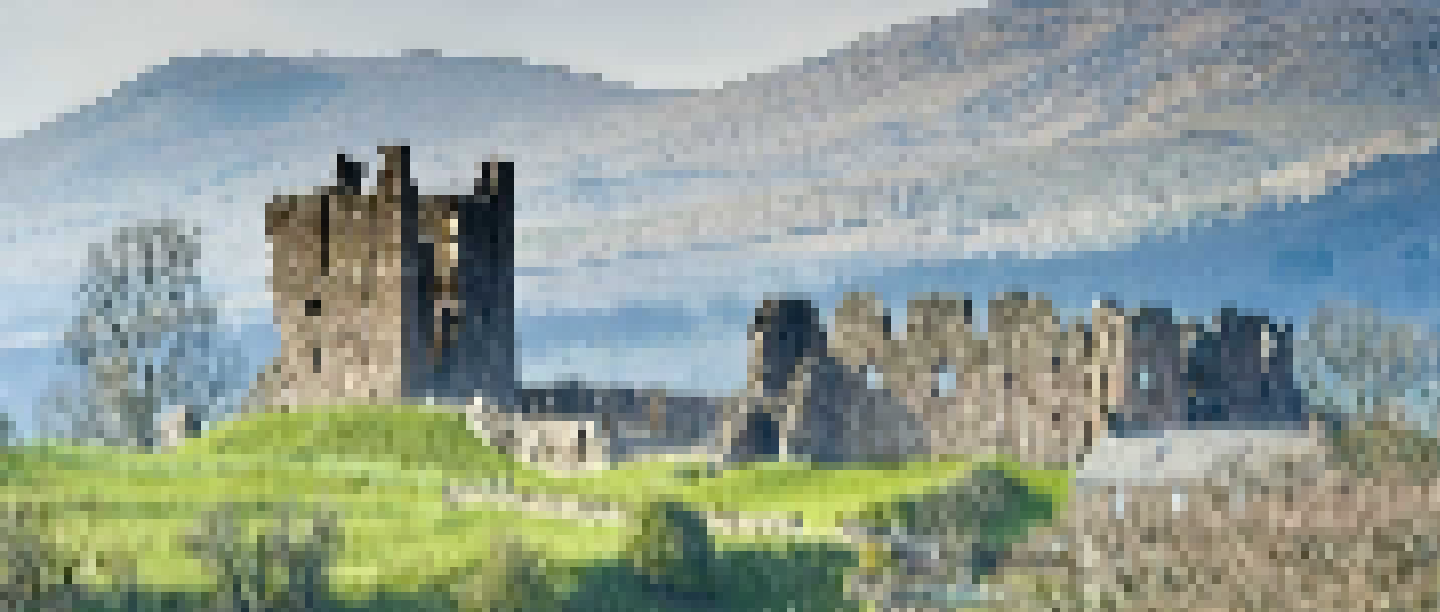
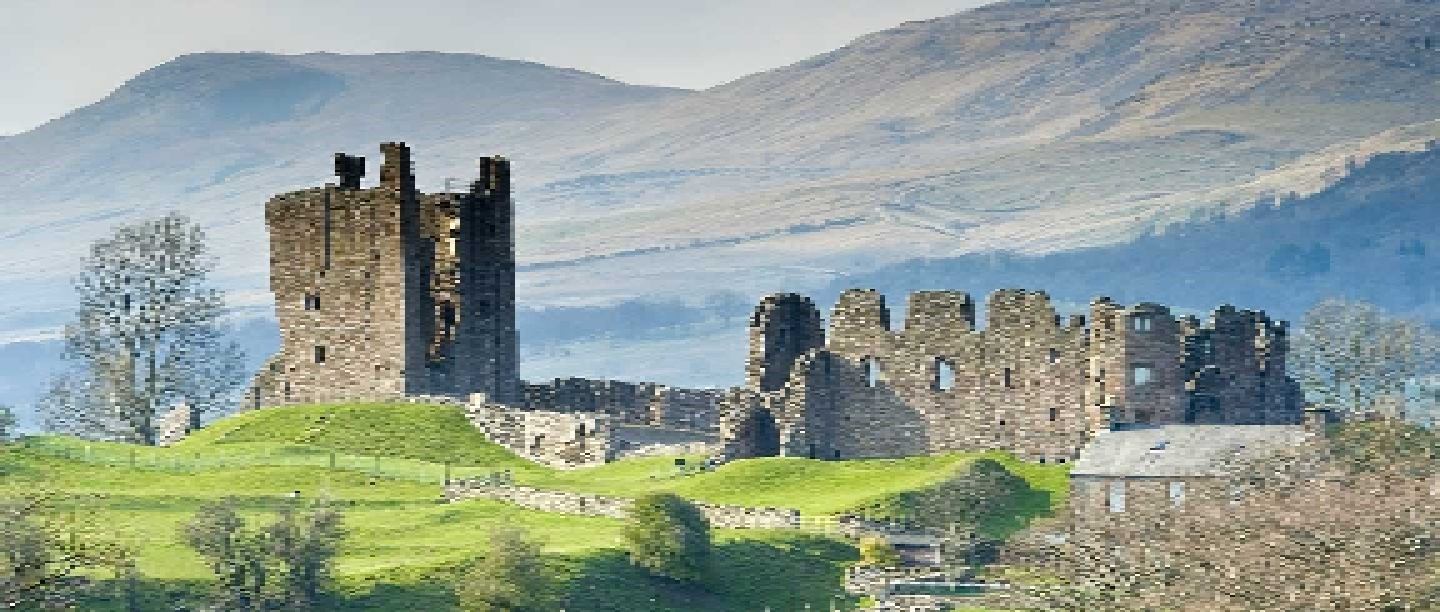
update the background and npc

diff --git a/levels/greensleeves.py b/levels/greensleeves.py
@@ -133,17 +133,15 @@ def start():
 
 
     # Create the background image for the level
-    bg_img = pygame.image.load('assets/images/backgrounds/happy_birthday_background.png')
-    bg_img = pygame.transform.scale(bg_img,(SCREEN_WIDTH,SCREEN_HEIGHT))
-    
-    # king = pygame.image.load('assets/images/characters/npcs/Henry_VIII.png')
-    # king = pygame.transform.scale(king, (150, 210))
-    
-    # queen = pygame.image.load('assets/images/characters/npcs/Anne_Boleyn.png')
-    # queen = pygame.transform.scale(queen, (90, 90))
+    bg_image = pygame.image.load("assets/images/backgrounds/greensleeves-bg.png").convert()
+    bg_image.set_colorkey((255, 255, 255), RLEACCEL)
+
     # a foreground image for the notes to go behind
-    # fg_image = pygame.image.load("assets/images/backgrounds/greensleeves-bg.png").convert()
-    # fg_image.set_colorkey((255, 255, 255), RLEACCEL)
+    king = pygame.image.load('assets/images/characters/npcs/Henry_VIII.png')
+    king = pygame.transform.scale(king, (100, 160))
+    
+    queen = pygame.image.load('assets/images/characters/npcs/Anne_Boleyn.png')
+    queen = pygame.transform.scale(queen, (60, 60))
 
 
     # the background image of the tabs
@@ -195,94 +193,94 @@ def start():
 
     # This is the array with the song's note information
     song_notes = [
-        note.Note(text="2", midi=55, time_to_next_note=0.6, tab_line=3, Screen_Width=SCREEN_WIDTH, Screen_Height=SCREEN_HEIGHT, id=0),
+        note.Note(text="2", midi=57, time_to_next_note=0.6, tab_line=3, Screen_Width=SCREEN_WIDTH, Screen_Height=SCREEN_HEIGHT, id=0),
  
-        note.Note(text="1", midi=55, time_to_next_note=1, tab_line=2, Screen_Width=SCREEN_WIDTH, Screen_Height=SCREEN_HEIGHT, id=1),
-        note.Note(text="3", midi=57, time_to_next_note=0.6, tab_line=2, Screen_Width=SCREEN_WIDTH, Screen_Height=SCREEN_HEIGHT, id=2),
-        note.Note(text="0", midi=55, time_to_next_note=0.9, tab_line=1, Screen_Width=SCREEN_WIDTH, Screen_Height=SCREEN_HEIGHT, id=3),
-        note.Note(text="2", midi=60, time_to_next_note=0.45, tab_line=1, Screen_Width=SCREEN_WIDTH, Screen_Height=SCREEN_HEIGHT, id=4),
-        note.Note(text="0", midi=59, time_to_next_note=0.6, tab_line=1, Screen_Width=SCREEN_WIDTH, Screen_Height=SCREEN_HEIGHT, id=5),
+        note.Note(text="1", midi=60, time_to_next_note=1, tab_line=2, Screen_Width=SCREEN_WIDTH, Screen_Height=SCREEN_HEIGHT, id=1),
+        note.Note(text="3", midi=62, time_to_next_note=0.6, tab_line=2, Screen_Width=SCREEN_WIDTH, Screen_Height=SCREEN_HEIGHT, id=2),
+        note.Note(text="0", midi=64, time_to_next_note=0.9, tab_line=1, Screen_Width=SCREEN_WIDTH, Screen_Height=SCREEN_HEIGHT, id=3),
+        note.Note(text="2", midi=66, time_to_next_note=0.45, tab_line=1, Screen_Width=SCREEN_WIDTH, Screen_Height=SCREEN_HEIGHT, id=4),
+        note.Note(text="0", midi=64, time_to_next_note=0.6, tab_line=1, Screen_Width=SCREEN_WIDTH, Screen_Height=SCREEN_HEIGHT, id=5),
         
-        note.Note(text="3", midi=55, time_to_next_note=1, tab_line=2, Screen_Width=SCREEN_WIDTH, Screen_Height=SCREEN_HEIGHT, id=6),
-        note.Note(text="0", midi=55, time_to_next_note=0.6, tab_line=2, Screen_Width=SCREEN_WIDTH, Screen_Height=SCREEN_HEIGHT, id=7),
-        note.Note(text="0", midi=57, time_to_next_note=0.9, tab_line=3, Screen_Width=SCREEN_WIDTH, Screen_Height=SCREEN_HEIGHT, id=8),
-        note.Note(text="2", midi=55, time_to_next_note=0.45, tab_line=3, Screen_Width=SCREEN_WIDTH, Screen_Height=SCREEN_HEIGHT, id=9),
-        note.Note(text="0", midi=62, time_to_next_note=0.6, tab_line=2, Screen_Width=SCREEN_WIDTH, Screen_Height=SCREEN_HEIGHT, id=10),
+        note.Note(text="3", midi=62, time_to_next_note=1, tab_line=2, Screen_Width=SCREEN_WIDTH, Screen_Height=SCREEN_HEIGHT, id=6),
+        note.Note(text="0", midi=59, time_to_next_note=0.6, tab_line=2, Screen_Width=SCREEN_WIDTH, Screen_Height=SCREEN_HEIGHT, id=7),
+        note.Note(text="0", midi=55, time_to_next_note=0.9, tab_line=3, Screen_Width=SCREEN_WIDTH, Screen_Height=SCREEN_HEIGHT, id=8),
+        note.Note(text="2", midi=57, time_to_next_note=0.45, tab_line=3, Screen_Width=SCREEN_WIDTH, Screen_Height=SCREEN_HEIGHT, id=9),
+        note.Note(text="0", midi=59, time_to_next_note=0.6, tab_line=2, Screen_Width=SCREEN_WIDTH, Screen_Height=SCREEN_HEIGHT, id=10),
         
         note.Note(text="1", midi=60, time_to_next_note=1, tab_line=2, Screen_Width=SCREEN_WIDTH, Screen_Height=SCREEN_HEIGHT, id=11),
-        note.Note(text="2", midi=55, time_to_next_note=0.6, tab_line=3, Screen_Width=SCREEN_WIDTH, Screen_Height=SCREEN_HEIGHT, id=13),
-        note.Note(text="2", midi=55, time_to_next_note=0.9, tab_line=3, Screen_Width=SCREEN_WIDTH, Screen_Height=SCREEN_HEIGHT, id=14),
-        note.Note(text="1", midi=67, time_to_next_note=0.45, tab_line=3, Screen_Width=SCREEN_WIDTH, Screen_Height=SCREEN_HEIGHT, id=15),
-        note.Note(text="2", midi=64, time_to_next_note=0.6, tab_line=3, Screen_Width=SCREEN_WIDTH, Screen_Height=SCREEN_HEIGHT, id=16),
+        note.Note(text="2", midi=57, time_to_next_note=0.6, tab_line=3, Screen_Width=SCREEN_WIDTH, Screen_Height=SCREEN_HEIGHT, id=13),
+        note.Note(text="2", midi=57, time_to_next_note=0.9, tab_line=3, Screen_Width=SCREEN_WIDTH, Screen_Height=SCREEN_HEIGHT, id=14),
+        note.Note(text="1", midi=56, time_to_next_note=0.45, tab_line=3, Screen_Width=SCREEN_WIDTH, Screen_Height=SCREEN_HEIGHT, id=15),
+        note.Note(text="2", midi=57, time_to_next_note=0.6, tab_line=3, Screen_Width=SCREEN_WIDTH, Screen_Height=SCREEN_HEIGHT, id=16),
         
-        note.Note(text="0", midi=60, time_to_next_note=1, tab_line=2, Screen_Width=SCREEN_WIDTH, Screen_Height=SCREEN_HEIGHT, id=17),
-        note.Note(text="1", midi=59, time_to_next_note=0.6, tab_line=3, Screen_Width=SCREEN_WIDTH, Screen_Height=SCREEN_HEIGHT, id=18),
-        note.Note(text="2", midi=57, time_to_next_note=1, tab_line=4, Screen_Width=SCREEN_WIDTH, Screen_Height=SCREEN_HEIGHT, id=19),
-        note.Note(text="2", midi=65, time_to_next_note=0.6, tab_line=3, Screen_Width=SCREEN_WIDTH, Screen_Height=SCREEN_HEIGHT, id=20),
+        note.Note(text="0", midi=59, time_to_next_note=1, tab_line=2, Screen_Width=SCREEN_WIDTH, Screen_Height=SCREEN_HEIGHT, id=17),
+        note.Note(text="1", midi=56, time_to_next_note=0.6, tab_line=3, Screen_Width=SCREEN_WIDTH, Screen_Height=SCREEN_HEIGHT, id=18),
+        note.Note(text="2", midi=52, time_to_next_note=1, tab_line=4, Screen_Width=SCREEN_WIDTH, Screen_Height=SCREEN_HEIGHT, id=19),
+        note.Note(text="2", midi=57, time_to_next_note=0.6, tab_line=3, Screen_Width=SCREEN_WIDTH, Screen_Height=SCREEN_HEIGHT, id=20),
         
-        note.Note(text="1", midi=65, time_to_next_note=1, tab_line=2, Screen_Width=SCREEN_WIDTH, Screen_Height=SCREEN_HEIGHT, id=21),
-        note.Note(text="3", midi=64, time_to_next_note=0.6, tab_line=2, Screen_Width=SCREEN_WIDTH, Screen_Height=SCREEN_HEIGHT, id=22),
-        note.Note(text="0", midi=60, time_to_next_note=0.9, tab_line=1, Screen_Width=SCREEN_WIDTH, Screen_Height=SCREEN_HEIGHT, id=23),
-        note.Note(text="2", midi=62, time_to_next_note=0.45,tab_line=1, Screen_Width=SCREEN_WIDTH, Screen_Height=SCREEN_HEIGHT, id=24),
-        note.Note(text="0", midi=60, time_to_next_note=0.6,tab_line=1, Screen_Width=SCREEN_WIDTH, Screen_Height=SCREEN_HEIGHT, id=25),
+        note.Note(text="1", midi=60, time_to_next_note=1, tab_line=2, Screen_Width=SCREEN_WIDTH, Screen_Height=SCREEN_HEIGHT, id=21),
+        note.Note(text="3", midi=62, time_to_next_note=0.6, tab_line=2, Screen_Width=SCREEN_WIDTH, Screen_Height=SCREEN_HEIGHT, id=22),
+        note.Note(text="0", midi=64, time_to_next_note=0.9, tab_line=1, Screen_Width=SCREEN_WIDTH, Screen_Height=SCREEN_HEIGHT, id=23),
+        note.Note(text="2", midi=66, time_to_next_note=0.45,tab_line=1, Screen_Width=SCREEN_WIDTH, Screen_Height=SCREEN_HEIGHT, id=24),
+        note.Note(text="0", midi=64, time_to_next_note=0.6,tab_line=1, Screen_Width=SCREEN_WIDTH, Screen_Height=SCREEN_HEIGHT, id=25),
 
-        note.Note(text="3", midi=65, time_to_next_note=1, tab_line=2, Screen_Width=SCREEN_WIDTH, Screen_Height=SCREEN_HEIGHT, id=21),
-        note.Note(text="0", midi=64, time_to_next_note=0.6, tab_line=2, Screen_Width=SCREEN_WIDTH, Screen_Height=SCREEN_HEIGHT, id=22),
-        note.Note(text="0", midi=60, time_to_next_note=0.9, tab_line=3, Screen_Width=SCREEN_WIDTH, Screen_Height=SCREEN_HEIGHT, id=23),
-        note.Note(text="2", midi=62, time_to_next_note=0.45,tab_line=3, Screen_Width=SCREEN_WIDTH, Screen_Height=SCREEN_HEIGHT, id=24),
-        note.Note(text="0", midi=60, time_to_next_note=0.6,tab_line=2, Screen_Width=SCREEN_WIDTH, Screen_Height=SCREEN_HEIGHT, id=25),
+        note.Note(text="3", midi=62, time_to_next_note=1, tab_line=2, Screen_Width=SCREEN_WIDTH, Screen_Height=SCREEN_HEIGHT, id=21),
+        note.Note(text="0", midi=59, time_to_next_note=0.6, tab_line=2, Screen_Width=SCREEN_WIDTH, Screen_Height=SCREEN_HEIGHT, id=22),
+        note.Note(text="0", midi=55, time_to_next_note=0.9, tab_line=3, Screen_Width=SCREEN_WIDTH, Screen_Height=SCREEN_HEIGHT, id=23),
+        note.Note(text="2", midi=57, time_to_next_note=0.45,tab_line=3, Screen_Width=SCREEN_WIDTH, Screen_Height=SCREEN_HEIGHT, id=24),
+        note.Note(text="0", midi=59, time_to_next_note=0.6,tab_line=2, Screen_Width=SCREEN_WIDTH, Screen_Height=SCREEN_HEIGHT, id=25),
 
-        note.Note(text="1", midi=65, time_to_next_note=0.6, tab_line=2, Screen_Width=SCREEN_WIDTH, Screen_Height=SCREEN_HEIGHT, id=21),
-        note.Note(text="0", midi=64, time_to_next_note=0.6, tab_line=2, Screen_Width=SCREEN_WIDTH, Screen_Height=SCREEN_HEIGHT, id=22),
-        note.Note(text="2", midi=60, time_to_next_note=0.6, tab_line=3, Screen_Width=SCREEN_WIDTH, Screen_Height=SCREEN_HEIGHT, id=23),
-        note.Note(text="1", midi=60, time_to_next_note=0.6,tab_line=3, Screen_Width=SCREEN_WIDTH, Screen_Height=SCREEN_HEIGHT, id=25),
-        note.Note(text="4", midi=62, time_to_next_note=0.45,tab_line=4, Screen_Width=SCREEN_WIDTH, Screen_Height=SCREEN_HEIGHT, id=24),
-        note.Note(text="1", midi=60, time_to_next_note=0.6,tab_line=3, Screen_Width=SCREEN_WIDTH, Screen_Height=SCREEN_HEIGHT, id=25),
+        note.Note(text="1", midi=60, time_to_next_note=0.6, tab_line=2, Screen_Width=SCREEN_WIDTH, Screen_Height=SCREEN_HEIGHT, id=21),
+        note.Note(text="0", midi=59, time_to_next_note=0.6, tab_line=2, Screen_Width=SCREEN_WIDTH, Screen_Height=SCREEN_HEIGHT, id=22),
+        note.Note(text="2", midi=57, time_to_next_note=0.6, tab_line=3, Screen_Width=SCREEN_WIDTH, Screen_Height=SCREEN_HEIGHT, id=23),
+        note.Note(text="1", midi=56, time_to_next_note=0.6,tab_line=3, Screen_Width=SCREEN_WIDTH, Screen_Height=SCREEN_HEIGHT, id=25),
+        note.Note(text="4", midi=54, time_to_next_note=0.45,tab_line=4, Screen_Width=SCREEN_WIDTH, Screen_Height=SCREEN_HEIGHT, id=24),
+        note.Note(text="1", midi=56, time_to_next_note=0.6,tab_line=3, Screen_Width=SCREEN_WIDTH, Screen_Height=SCREEN_HEIGHT, id=25),
 
-        note.Note(text="2", midi=65, time_to_next_note=1.6, tab_line=3, Screen_Width=SCREEN_WIDTH, Screen_Height=SCREEN_HEIGHT, id=21),
-        note.Note(text="2", midi=64, time_to_next_note=1.6, tab_line=3, Screen_Width=SCREEN_WIDTH, Screen_Height=SCREEN_HEIGHT, id=22),
+        note.Note(text="2", midi=57, time_to_next_note=1.6, tab_line=3, Screen_Width=SCREEN_WIDTH, Screen_Height=SCREEN_HEIGHT, id=21),
+        note.Note(text="2", midi=57, time_to_next_note=1.6, tab_line=3, Screen_Width=SCREEN_WIDTH, Screen_Height=SCREEN_HEIGHT, id=22),
 
-        note.Note(text="3", midi=65, time_to_next_note=1.6, tab_line=1, Screen_Width=SCREEN_WIDTH, Screen_Height=SCREEN_HEIGHT, id=21),
-        note.Note(text="3", midi=64, time_to_next_note=0.9, tab_line=1, Screen_Width=SCREEN_WIDTH, Screen_Height=SCREEN_HEIGHT, id=22),
-        note.Note(text="2", midi=62, time_to_next_note=0.45,tab_line=1, Screen_Width=SCREEN_WIDTH, Screen_Height=SCREEN_HEIGHT, id=24),
-        note.Note(text="0", midi=60, time_to_next_note=0.6,tab_line=1, Screen_Width=SCREEN_WIDTH, Screen_Height=SCREEN_HEIGHT, id=25),
+        note.Note(text="3", midi=67, time_to_next_note=1.6, tab_line=1, Screen_Width=SCREEN_WIDTH, Screen_Height=SCREEN_HEIGHT, id=21),
+        note.Note(text="3", midi=67, time_to_next_note=0.9, tab_line=1, Screen_Width=SCREEN_WIDTH, Screen_Height=SCREEN_HEIGHT, id=22),
+        note.Note(text="2", midi=66, time_to_next_note=0.45,tab_line=1, Screen_Width=SCREEN_WIDTH, Screen_Height=SCREEN_HEIGHT, id=24),
+        note.Note(text="0", midi=64, time_to_next_note=0.6,tab_line=1, Screen_Width=SCREEN_WIDTH, Screen_Height=SCREEN_HEIGHT, id=25),
         
-        note.Note(text="3", midi=65, time_to_next_note=1, tab_line=2, Screen_Width=SCREEN_WIDTH, Screen_Height=SCREEN_HEIGHT, id=21),
-        note.Note(text="0", midi=64, time_to_next_note=0.6, tab_line=2, Screen_Width=SCREEN_WIDTH, Screen_Height=SCREEN_HEIGHT, id=22),
-        note.Note(text="0", midi=60, time_to_next_note=0.9, tab_line=3, Screen_Width=SCREEN_WIDTH, Screen_Height=SCREEN_HEIGHT, id=23),
-        note.Note(text="2", midi=62, time_to_next_note=0.45,tab_line=3, Screen_Width=SCREEN_WIDTH, Screen_Height=SCREEN_HEIGHT, id=24),
-        note.Note(text="0", midi=60, time_to_next_note=0.6,tab_line=2, Screen_Width=SCREEN_WIDTH, Screen_Height=SCREEN_HEIGHT, id=25),
+        note.Note(text="3", midi=62, time_to_next_note=1, tab_line=2, Screen_Width=SCREEN_WIDTH, Screen_Height=SCREEN_HEIGHT, id=21),
+        note.Note(text="0", midi=59, time_to_next_note=0.6, tab_line=2, Screen_Width=SCREEN_WIDTH, Screen_Height=SCREEN_HEIGHT, id=22),
+        note.Note(text="0", midi=55, time_to_next_note=0.9, tab_line=3, Screen_Width=SCREEN_WIDTH, Screen_Height=SCREEN_HEIGHT, id=23),
+        note.Note(text="2", midi=57, time_to_next_note=0.45,tab_line=3, Screen_Width=SCREEN_WIDTH, Screen_Height=SCREEN_HEIGHT, id=24),
+        note.Note(text="0", midi=59, time_to_next_note=0.6,tab_line=2, Screen_Width=SCREEN_WIDTH, Screen_Height=SCREEN_HEIGHT, id=25),
         
-        note.Note(text="1", midi=65, time_to_next_note=1, tab_line=2, Screen_Width=SCREEN_WIDTH, Screen_Height=SCREEN_HEIGHT, id=21),
-        note.Note(text="2", midi=64, time_to_next_note=0.6, tab_line=3, Screen_Width=SCREEN_WIDTH, Screen_Height=SCREEN_HEIGHT, id=22),
-        note.Note(text="2", midi=60, time_to_next_note=0.9, tab_line=3, Screen_Width=SCREEN_WIDTH, Screen_Height=SCREEN_HEIGHT, id=23),
-        note.Note(text="1", midi=62, time_to_next_note=0.45,tab_line=3, Screen_Width=SCREEN_WIDTH, Screen_Height=SCREEN_HEIGHT, id=24),
-        note.Note(text="2", midi=60, time_to_next_note=0.6,tab_line=3, Screen_Width=SCREEN_WIDTH, Screen_Height=SCREEN_HEIGHT, id=25),
+        note.Note(text="1", midi=60, time_to_next_note=1, tab_line=2, Screen_Width=SCREEN_WIDTH, Screen_Height=SCREEN_HEIGHT, id=21),
+        note.Note(text="2", midi=57, time_to_next_note=0.6, tab_line=3, Screen_Width=SCREEN_WIDTH, Screen_Height=SCREEN_HEIGHT, id=22),
+        note.Note(text="2", midi=57, time_to_next_note=0.9, tab_line=3, Screen_Width=SCREEN_WIDTH, Screen_Height=SCREEN_HEIGHT, id=23),
+        note.Note(text="1", midi=56, time_to_next_note=0.45,tab_line=3, Screen_Width=SCREEN_WIDTH, Screen_Height=SCREEN_HEIGHT, id=24),
+        note.Note(text="2", midi=57, time_to_next_note=0.6,tab_line=3, Screen_Width=SCREEN_WIDTH, Screen_Height=SCREEN_HEIGHT, id=25),
 
-        note.Note(text="0", midi=65, time_to_next_note=1, tab_line=2, Screen_Width=SCREEN_WIDTH, Screen_Height=SCREEN_HEIGHT, id=21),
-        note.Note(text="1", midi=64, time_to_next_note=0.6, tab_line=3, Screen_Width=SCREEN_WIDTH, Screen_Height=SCREEN_HEIGHT, id=22),
-        note.Note(text="2", midi=60, time_to_next_note=1.6, tab_line=4, Screen_Width=SCREEN_WIDTH, Screen_Height=SCREEN_HEIGHT, id=23),
+        note.Note(text="0", midi=59, time_to_next_note=1, tab_line=2, Screen_Width=SCREEN_WIDTH, Screen_Height=SCREEN_HEIGHT, id=21),
+        note.Note(text="1", midi=55, time_to_next_note=0.6, tab_line=3, Screen_Width=SCREEN_WIDTH, Screen_Height=SCREEN_HEIGHT, id=22),
+        note.Note(text="2", midi=52, time_to_next_note=1.6, tab_line=4, Screen_Width=SCREEN_WIDTH, Screen_Height=SCREEN_HEIGHT, id=23),
 
-        note.Note(text="3", midi=65, time_to_next_note=1.6, tab_line=1, Screen_Width=SCREEN_WIDTH, Screen_Height=SCREEN_HEIGHT, id=21),
-        note.Note(text="3", midi=64, time_to_next_note=1.2, tab_line=1, Screen_Width=SCREEN_WIDTH, Screen_Height=SCREEN_HEIGHT, id=22),
-        note.Note(text="2", midi=60, time_to_next_note=0.45, tab_line=1, Screen_Width=SCREEN_WIDTH, Screen_Height=SCREEN_HEIGHT, id=23),
-        note.Note(text="0", midi=62, time_to_next_note=0.6,tab_line=1, Screen_Width=SCREEN_WIDTH, Screen_Height=SCREEN_HEIGHT, id=24),
+        note.Note(text="3", midi=67, time_to_next_note=1.6, tab_line=1, Screen_Width=SCREEN_WIDTH, Screen_Height=SCREEN_HEIGHT, id=21),
+        note.Note(text="3", midi=67, time_to_next_note=1.2, tab_line=1, Screen_Width=SCREEN_WIDTH, Screen_Height=SCREEN_HEIGHT, id=22),
+        note.Note(text="2", midi=66, time_to_next_note=0.45, tab_line=1, Screen_Width=SCREEN_WIDTH, Screen_Height=SCREEN_HEIGHT, id=23),
+        note.Note(text="0", midi=64, time_to_next_note=0.6,tab_line=1, Screen_Width=SCREEN_WIDTH, Screen_Height=SCREEN_HEIGHT, id=24),
 
-        note.Note(text="3", midi=65, time_to_next_note=1, tab_line=2, Screen_Width=SCREEN_WIDTH, Screen_Height=SCREEN_HEIGHT, id=21),
-        note.Note(text="0", midi=64, time_to_next_note=0.6, tab_line=2, Screen_Width=SCREEN_WIDTH, Screen_Height=SCREEN_HEIGHT, id=22),
-        note.Note(text="0", midi=60, time_to_next_note=1.2, tab_line=3, Screen_Width=SCREEN_WIDTH, Screen_Height=SCREEN_HEIGHT, id=23),
-        note.Note(text="2", midi=62, time_to_next_note=0.45,tab_line=3, Screen_Width=SCREEN_WIDTH, Screen_Height=SCREEN_HEIGHT, id=24),
-        note.Note(text="0", midi=60, time_to_next_note=0.6,tab_line=2, Screen_Width=SCREEN_WIDTH, Screen_Height=SCREEN_HEIGHT, id=25),
+        note.Note(text="3", midi=62, time_to_next_note=1, tab_line=2, Screen_Width=SCREEN_WIDTH, Screen_Height=SCREEN_HEIGHT, id=21),
+        note.Note(text="0", midi=59, time_to_next_note=0.6, tab_line=2, Screen_Width=SCREEN_WIDTH, Screen_Height=SCREEN_HEIGHT, id=22),
+        note.Note(text="0", midi=55, time_to_next_note=1.2, tab_line=3, Screen_Width=SCREEN_WIDTH, Screen_Height=SCREEN_HEIGHT, id=23),
+        note.Note(text="2", midi=57, time_to_next_note=0.45,tab_line=3, Screen_Width=SCREEN_WIDTH, Screen_Height=SCREEN_HEIGHT, id=24),
+        note.Note(text="0", midi=59, time_to_next_note=0.6,tab_line=2, Screen_Width=SCREEN_WIDTH, Screen_Height=SCREEN_HEIGHT, id=25),
     
-        note.Note(text="1", midi=65, time_to_next_note=0.6, tab_line=2, Screen_Width=SCREEN_WIDTH, Screen_Height=SCREEN_HEIGHT, id=21),
-        note.Note(text="0", midi=64, time_to_next_note=0.6, tab_line=2, Screen_Width=SCREEN_WIDTH, Screen_Height=SCREEN_HEIGHT, id=22),
-        note.Note(text="2", midi=60, time_to_next_note=0.6, tab_line=3, Screen_Width=SCREEN_WIDTH, Screen_Height=SCREEN_HEIGHT, id=23),
-        note.Note(text="1", midi=60, time_to_next_note=0.6,tab_line=3, Screen_Width=SCREEN_WIDTH, Screen_Height=SCREEN_HEIGHT, id=25),
-        note.Note(text="4", midi=62, time_to_next_note=0.45,tab_line=4, Screen_Width=SCREEN_WIDTH, Screen_Height=SCREEN_HEIGHT, id=24),
-        note.Note(text="1", midi=60, time_to_next_note=0.6,tab_line=3, Screen_Width=SCREEN_WIDTH, Screen_Height=SCREEN_HEIGHT, id=25),
+        note.Note(text="1", midi=60, time_to_next_note=0.6, tab_line=2, Screen_Width=SCREEN_WIDTH, Screen_Height=SCREEN_HEIGHT, id=21),
+        note.Note(text="0", midi=59, time_to_next_note=0.6, tab_line=2, Screen_Width=SCREEN_WIDTH, Screen_Height=SCREEN_HEIGHT, id=22),
+        note.Note(text="2", midi=57, time_to_next_note=0.6, tab_line=3, Screen_Width=SCREEN_WIDTH, Screen_Height=SCREEN_HEIGHT, id=23),
+        note.Note(text="1", midi=56, time_to_next_note=0.6,tab_line=3, Screen_Width=SCREEN_WIDTH, Screen_Height=SCREEN_HEIGHT, id=25),
+        note.Note(text="4", midi=54, time_to_next_note=0.45,tab_line=4, Screen_Width=SCREEN_WIDTH, Screen_Height=SCREEN_HEIGHT, id=24),
+        note.Note(text="1", midi=56, time_to_next_note=0.6,tab_line=3, Screen_Width=SCREEN_WIDTH, Screen_Height=SCREEN_HEIGHT, id=25),
 
-        note.Note(text="2", midi=65, time_to_next_note=1.6, tab_line=3, Screen_Width=SCREEN_WIDTH, Screen_Height=SCREEN_HEIGHT, id=21),
-        note.Note(text="2", midi=64, time_to_next_note=1.6, tab_line=3, Screen_Width=SCREEN_WIDTH, Screen_Height=SCREEN_HEIGHT, id=22),
+        note.Note(text="2", midi=57, time_to_next_note=1.6, tab_line=3, Screen_Width=SCREEN_WIDTH, Screen_Height=SCREEN_HEIGHT, id=21),
+        note.Note(text="2", midi=57, time_to_next_note=1.6, tab_line=3, Screen_Width=SCREEN_WIDTH, Screen_Height=SCREEN_HEIGHT, id=22),
          
         ]
     
@@ -603,12 +601,11 @@ def start():
 
 
                 # Fill the screen with the background image
-                screen.blit(bg_img,(0,0))
+                screen.blit(bg_image,(0,0))
                 screen.blit(play_line_image,(0,0))
-                # screen.blit(fg_image, (0,0))
                 screen.blit(tabs_image,(0,0))
-                # screen.blit(king, (420,360))
-                # screen.blit(queen, (670,305))
+                screen.blit(king, (420,420))
+                screen.blit(queen, (670,450))
 
 
                 # Draw all our sprites
